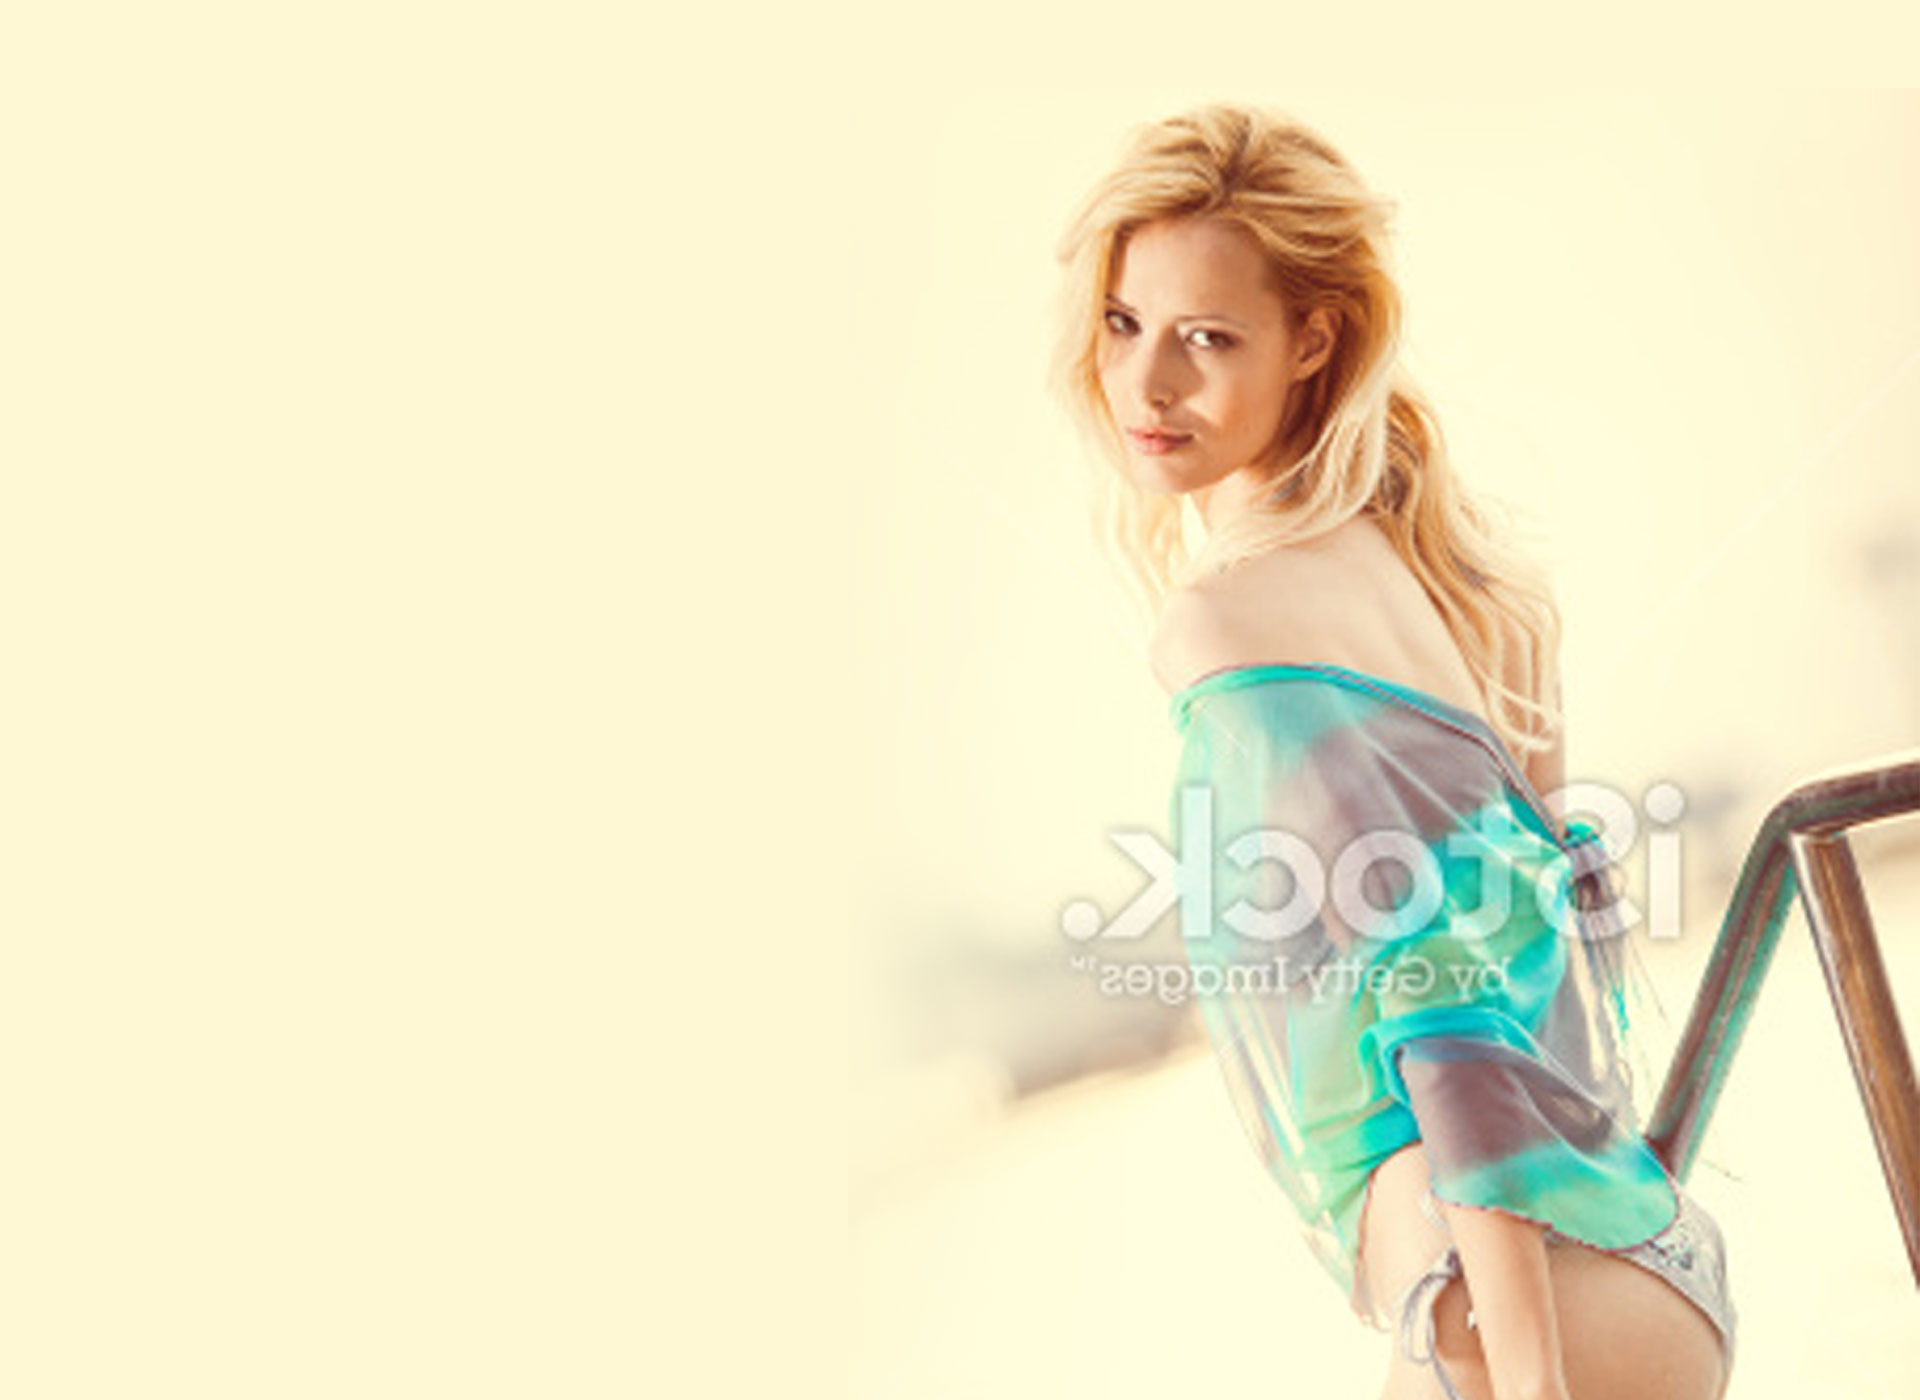
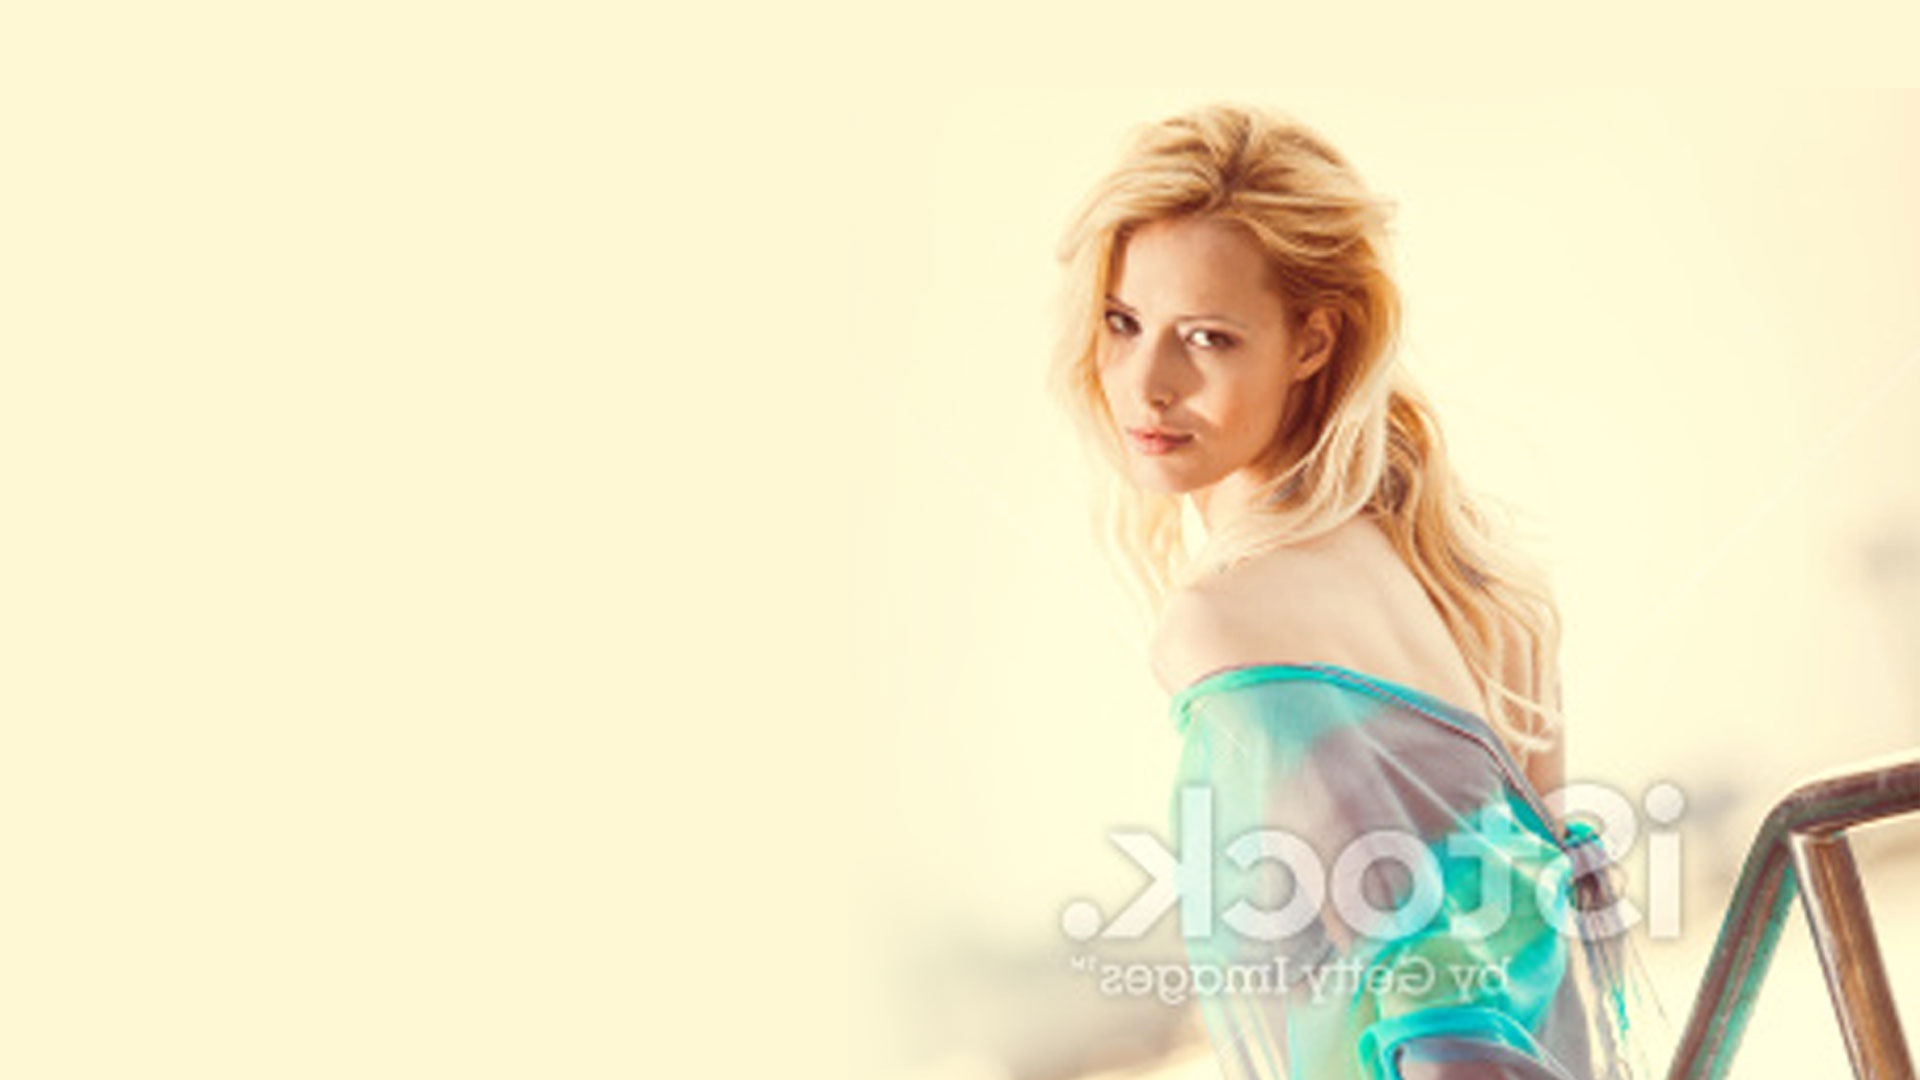
Getting work done. Monday & Tuesday Complete

Changed region(s): [[0.5, 0.0611, 1.0, 1.0], [0.9688, 0.3972, 1.0, 0.4278]]

diff --git a/app/assets/stylesheets/application.scss b/app/assets/stylesheets/application.scss
@@ -21,6 +21,9 @@ Table of contents for my custom stuff:
 2. Home Page
 3. Swimshow Page
 4. Show Dates
+5. Special Events
+6. Exhibitors
+7. Retailers Page
 
 ************************************************************************************/
 
@@ -270,16 +273,17 @@ ul.nav li.dropdown:hover > ul.dropdown-menu {
 // 4. Show Dates
 .showdates-head {
   background: url(image-path("showdates.jpg")) repeat-y center bottom;
+  background-attachment: fixed;
   max-width: 100%;
-  min-height: 570px;
   background-size: cover;
   position: relative;
   overflow-y: hidden;
   text-align: center;
+  height: 100vh;
   .top {
     padding-top: 45%;
   }
-  h1 {font-family: $playfair;}
+  h1 {font-family: $playfair;font-size: 70px !important;}
   p {font-size: 16px;font-weight: 300;}
 }
 
@@ -301,4 +305,77 @@ ul.nav li.dropdown:hover > ul.dropdown-menu {
 }
 .dates-btm {
   @extend .swim-sect-3;
+}
+
+// 5. Special Events
+.special-head {
+  @extend .showdates-head;
+  background: url(image-path("special-events.jpg")) repeat-y center bottom;
+  background-attachment: fixed;
+  background-size: cover;
+  max-width: 100%;
+  overflow-y: hidden;
+  text-align: center;
+  height: 100vh;
+  .top {
+    padding-top: 15%;
+  }
+}
+.special-events {
+  padding: 150px 0;
+  h1 {
+    font-family: $playfair;
+    font-size: 30px !important;
+    text-align: center;
+  }
+  p {
+    font-weight: 300;
+    text-align: center;
+  }
+  .box {
+    padding: 80px 0;
+    .btn-member {
+      margin: 0 auto;
+      display: block;
+      width: 170px;
+      padding: 5px 0px;
+    }
+    ul {
+      text-align: center;
+    }
+    li {
+      display: inline-block;
+      padding: 0 10px;
+    }
+  }
+}
+
+// 6. Exhibitors
+.exhibitors-head {
+  @extend .showdates-head;
+  background: url(image-path("exhibitors.jpg")) repeat-y center bottom;
+  background-attachment: fixed;
+  background-size: cover;
+  max-width: 100%;
+  overflow-y: hidden;
+  text-align: center;
+  height: 100vh;
+  .top {
+    padding-top: 50%;
+  }
+}
+
+// 7. Retailers Page
+.retailers-head {
+  @extend .showdates-head;
+  background: url(image-path("retailers.jpg")) repeat-y center bottom;
+  background-attachment: fixed;
+  background-size: cover;
+  max-width: 100%;
+  overflow-y: hidden;
+  text-align: center;
+  height: 100vh;
+  .top {
+    padding-top: 50%;
+  }
 }

diff --git a/config/routes.rb b/config/routes.rb
@@ -4,6 +4,9 @@ Rails.application.routes.draw do
 
   get '/swimshow' => 'pages#swimshow'
   get '/show-dates' => 'pages#showdates'
+  get '/special-events' => 'pages#special-events'
+  get '/exhibitors' => 'pages#exhibitors'
+  get '/retailers' => 'pages#retailers'
   get 'pages/about'
   get 'pages/dates'
   get 'pages/events'
